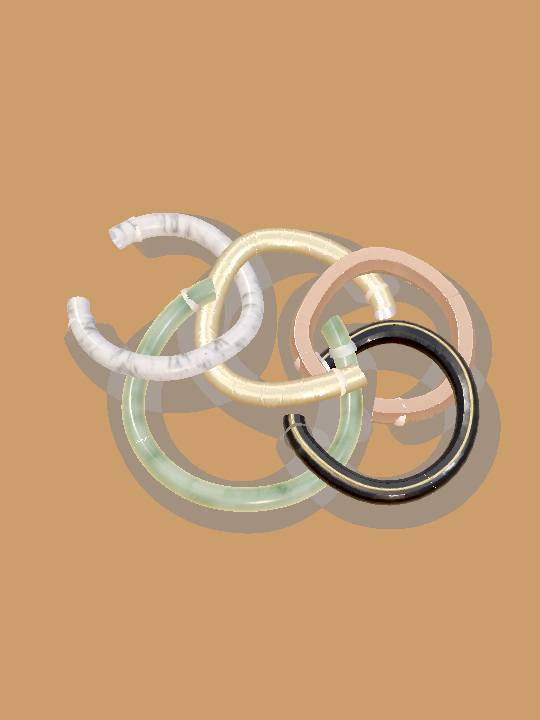
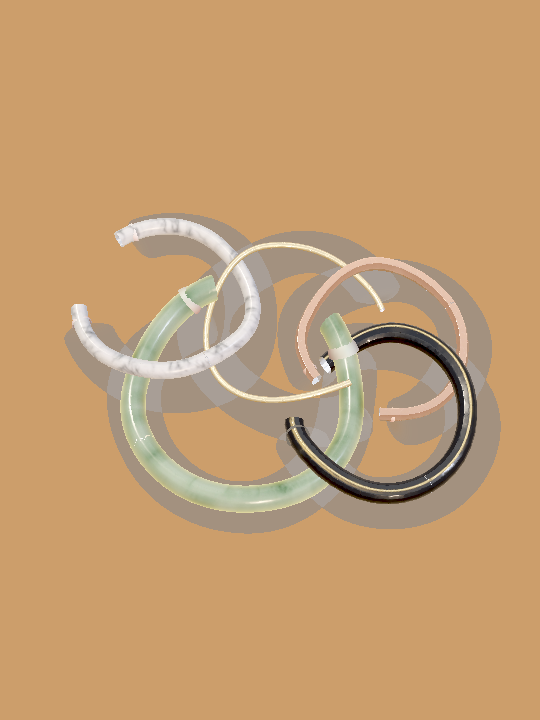
3D rings: draw Meshy GLBs uniformly scaled, as modelled (v1.1.1)
- ring tube thickness and surface detail come from the Meshy model itself (no re-sculpting to the level's thickness)
- end caps: matte, median texel colour of the model
- versionCode 3 / 1.1.1; release notes

Claude-Session: https://claude.ai/code/session_01UVtWuVMRXKuxhqo9e5aBGr

diff --git a/app/src/main/java/com/shiostudios/dumplingrings/ui/board3d/Board3DRenderer.kt b/app/src/main/java/com/shiostudios/dumplingrings/ui/board3d/Board3DRenderer.kt
@@ -40,7 +40,7 @@ class Board3DRenderer(private val context: Context, private val level: LevelDefi
     private val ringModels = HashMap<String, GlRingModel?>()
     private val capMeshes = ArrayList<TorusMesh>(); private val capVbos = IntArray(level.rings.size); private val capIbos = IntArray(level.rings.size)
     private val gapBuf = FloatArray(8)
-    private class GlRingModel(val vbo: Int, val ibo: Int, val indexType: Int, val indexCount: Int, val base: Int, val mr: Int, val nrm: Int, val metal: Float, val rough: Float, val avgColor: FloatArray)
+    private class GlRingModel(val vbo: Int, val ibo: Int, val indexType: Int, val indexCount: Int, val base: Int, val mr: Int, val nrm: Int, val metal: Float, val rough: Float, val avgColor: FloatArray, val tubeRatio: Float)
     private val meshes = ArrayList<TorusMesh>()
     private val vbos = IntArray(level.rings.size); private val ibos = IntArray(level.rings.size)
     private val textures = HashMap<String, Int>()
@@ -79,14 +79,14 @@ class Board3DRenderer(private val context: Context, private val level: LevelDefi
         quadProg = program(Shaders.QUAD_VS, Shaders.QUAD_FS)
         glbRingProg = program(Shaders.GLBRING_VS, Shaders.GLBRING_FS)
         meshes.clear(); capMeshes.clear(); ringModels.clear()
+        // rings are ALWAYS the Meshy premium meshes, drawn uniformly scaled (the model's own tube thickness); an unknown/missing asset falls back to the silver Meshy ring
+        for (mat in level.rings.map { materialOverride ?: it.materialId }.toSet()) ringModels[mat] = loadRingModel(ringAsset(mat)) ?: loadRingModel("ring_silver")
         for ((i, r) in level.rings.withIndex()) {
-            val cm = TorusMesh.buildCaps(r); capMeshes.add(cm)
+            val cm = TorusMesh.buildCaps(r.copy(thickness = visualThickness(i))); capMeshes.add(cm)
             val ids = IntArray(2); GLES30.glGenBuffers(2, ids, 0); capVbos[i] = ids[0]; capIbos[i] = ids[1]
             GLES30.glBindBuffer(GLES30.GL_ARRAY_BUFFER, capVbos[i]); GLES30.glBufferData(GLES30.GL_ARRAY_BUFFER, maxOf(cm.vertexCount, 1) * TorusMesh.FLOATS_PER_VERTEX * 4, cm.vertices, GLES30.GL_STATIC_DRAW)
             GLES30.glBindBuffer(GLES30.GL_ELEMENT_ARRAY_BUFFER, capIbos[i]); GLES30.glBufferData(GLES30.GL_ELEMENT_ARRAY_BUFFER, maxOf(cm.indexCount, 1) * 2, cm.indices, GLES30.GL_STATIC_DRAW)
         }
-        // rings are ALWAYS the Meshy premium meshes (never the procedural dough tube); an unknown/missing asset falls back to the silver Meshy ring
-        for (mat in level.rings.map { materialOverride ?: it.materialId }.toSet()) ringModels[mat] = loadRingModel(ringAsset(mat)) ?: loadRingModel("ring_silver")
         for ((i, r) in level.rings.withIndex()) {
             val m = TorusMesh.build(r); meshes.add(m)
             val ids = IntArray(2); GLES30.glGenBuffers(2, ids, 0); vbos[i] = ids[0]; ibos[i] = ids[1]
@@ -108,6 +108,12 @@ class Board3DRenderer(private val context: Context, private val level: LevelDefi
         else -> materialId
     }
 
+    /** Visual tube diameter of ring i: the Meshy model's own proportions scaled to the level radius (never the level's abstract thickness). */
+    private fun visualThickness(i: Int): Double {
+        val r = level.rings[i]; val m = ringModels[materialOverride ?: r.materialId] ?: return r.thickness
+        return 2.0 * r.radius * m.tubeRatio
+    }
+
     private fun loadRingModel(name: String): GlRingModel? = try {
         val bytes = context.assets.open("3d/rings/$name.glb").use { it.readBytes() }
         val glb = GlbLoader.load(bytes) ?: return null
@@ -118,9 +124,15 @@ class Board3DRenderer(private val context: Context, private val level: LevelDefi
         val base = glb.baseColor?.let { texture(it, repeat = true) } ?: whiteTex
         val mr = glb.metallicRoughness?.let { texture(it, repeat = true) } ?: 0
         val nm = glb.normalMap?.let { texture(it, repeat = true) } ?: 0
-        val avg = glb.baseColor?.let { b -> val sm = Bitmap.createScaledBitmap(b, 8, 8, true); var r = 0f; var g = 0f; var bl = 0f; for (y in 0 until 8) for (x in 0 until 8) { val px = sm.getPixel(x, y); r += (px shr 16 and 255) / 255f; g += (px shr 8 and 255) / 255f; bl += (px and 255) / 255f }; floatArrayOf(r / 64, g / 64, bl / 64) } ?: floatArrayOf(0.8f, 0.7f, 0.5f)
+        // cap colour = per-channel median of the texels the mesh actually uses (robust against inlays/atlas padding)
+        val avg = glb.baseColor?.let { b -> val uvs = glb.uvs ?: return@let null; val cnt = glb.positions.capacity() / 3
+            val rs = ArrayList<Float>(); val gs = ArrayList<Float>(); val bs = ArrayList<Float>()
+            for (i in 0 until cnt step maxOf(1, cnt / 400)) {
+                val x = ((uvs.get(i * 2) % 1f + 1f) % 1f * (b.width - 1)).toInt(); val y = ((uvs.get(i * 2 + 1) % 1f + 1f) % 1f * (b.height - 1)).toInt()
+                val px = b.getPixel(x, y); rs.add((px shr 16 and 255) / 255f); gs.add((px shr 8 and 255) / 255f); bs.add((px and 255) / 255f) }
+            if (rs.isEmpty()) null else floatArrayOf(rs.sorted()[rs.size / 2], gs.sorted()[gs.size / 2], bs.sorted()[bs.size / 2]) } ?: floatArrayOf(0.8f, 0.7f, 0.5f)
         Log.i("Board3D", "ring model $name: ${rm.vertexCount} verts, thickness ratio ${rm.thicknessRatio}")
-        GlRingModel(ids[0], ids[1], rm.indexType, rm.indexCount, base, mr, nm, glb.metallicFactor, glb.roughnessFactor, avg)
+        GlRingModel(ids[0], ids[1], rm.indexType, rm.indexCount, base, mr, nm, glb.metallicFactor, glb.roughnessFactor, avg, rm.minorRadius / rm.majorRadius)
     } catch (e: Exception) { Log.i("Board3D", "ring model $name not available: ${e.message}"); null }
 
     private fun shadowVs() = Shaders.RING_VS
@@ -265,6 +277,7 @@ class Board3DRenderer(private val context: Context, private val level: LevelDefi
         GLES30.glEnableVertexAttribArray(1); GLES30.glVertexAttribPointer(1, 2, GLES30.GL_FLOAT, false, stride, 12)
         GLES30.glEnableVertexAttribArray(2); GLES30.glVertexAttribPointer(2, 3, GLES30.GL_FLOAT, false, stride, 20)
         val e = setRingPlacement(prog, i, rs, s, false)
+        val minorVis = radii[i] * model.tubeRatio; GLES30.glUniform1f(u(prog, "uMinor"), minorVis)   // uniform scale of the Meshy model
         setLights(prog, l)
         GLES30.glActiveTexture(GLES30.GL_TEXTURE0); GLES30.glBindTexture(GLES30.GL_TEXTURE_2D, model.base); GLES30.glUniform1i(u(prog, "uAlbedo"), 0)
         GLES30.glActiveTexture(GLES30.GL_TEXTURE1); GLES30.glBindTexture(GLES30.GL_TEXTURE_2D, if (model.mr != 0) model.mr else whiteTex); GLES30.glUniform1i(u(prog, "uMetalRough"), 1)
@@ -278,7 +291,7 @@ class Board3DRenderer(private val context: Context, private val level: LevelDefi
         GLES30.glUniform1f(u(prog, "uDarken"), if (rs.locked) 1f else 0f)
         val stripe = colorOf(r.colorId); GLES30.glUniform3fv(u(prog, "uStripe"), 1, stripe, 0); GLES30.glUniform1f(u(prog, "uStripeOn"), if (r.colorId != null) 1f else 0f)
         // gaps in local radians, widened by the dome length so the caps own the edge
-        val capRad = (r.thickness * 0.5 / r.radius * 0.95).toFloat()
+        val capRad = model.tubeRatio * 0.95f
         var g = 0
         for (gap in r.gaps.take(4)) { gapBuf[g * 2] = Math.toRadians(gap.startDeg).toFloat() + capRad; gapBuf[g * 2 + 1] = (Math.toRadians(gap.widthDeg).toFloat() - 2 * capRad).coerceAtLeast(0f); g++ }
         GLES30.glUniform1i(u(prog, "uGapCount"), g); GLES30.glUniform2fv(u(prog, "uGaps"), 4, gapBuf, 0); GLES30.glUniform1f(u(prog, "uCapRad"), capRad)
@@ -289,9 +302,9 @@ class Board3DRenderer(private val context: Context, private val level: LevelDefi
         GLES30.glBindBuffer(GLES30.GL_ARRAY_BUFFER, capVbos[i]); GLES30.glBindBuffer(GLES30.GL_ELEMENT_ARRAY_BUFFER, capIbos[i])
         GLES30.glEnableVertexAttribArray(0); GLES30.glVertexAttribPointer(0, 4, GLES30.GL_FLOAT, false, 20, 0)
         GLES30.glEnableVertexAttribArray(1); GLES30.glVertexAttribPointer(1, 1, GLES30.GL_FLOAT, false, 20, 16)
-        setRingPlacement(ringProg, i, rs, s, false); setLights(ringProg, l)
+        setRingPlacement(ringProg, i, rs, s, false); GLES30.glUniform1f(u(ringProg, "uMinor"), minorVis); setLights(ringProg, l)
         GLES30.glActiveTexture(GLES30.GL_TEXTURE0); GLES30.glBindTexture(GLES30.GL_TEXTURE_2D, whiteTex); GLES30.glUniform1i(u(ringProg, "uAlbedo"), 0)
-        GLES30.glUniform3fv(u(ringProg, "uTint"), 1, model.avgColor, 0); GLES30.glUniform1f(u(ringProg, "uRough"), (model.rough * 0.6f).coerceIn(0.15f, 0.8f))
+        GLES30.glUniform3fv(u(ringProg, "uTint"), 1, model.avgColor, 0); GLES30.glUniform1f(u(ringProg, "uRough"), 0.72f)   // matte cut end in the model's own colour
         GLES30.glUniform3fv(u(ringProg, "uEmissive"), 1, em, 0); GLES30.glUniform1f(u(ringProg, "uAlpha"), if (ghost > 0f) ghost else 1f - e); GLES30.glUniform1f(u(ringProg, "uDarken"), if (rs.locked) 1f else 0f)
         GLES30.glUniform1f(u(ringProg, "uStripeOn"), 0f)
         GLES30.glDrawElements(GLES30.GL_TRIANGLES, capMeshes[i].indexCount, GLES30.GL_UNSIGNED_SHORT, 0)

diff --git a/tools/level_preview/render_gles.py b/tools/level_preview/render_gles.py
@@ -170,7 +170,8 @@ def main():
         glTexParameteri(GL_TEXTURE_2D, GL_TEXTURE_MIN_FILTER, GL_LINEAR_MIPMAP_LINEAR); glTexParameteri(GL_TEXTURE_2D, GL_TEXTURE_WRAP_S, GL_REPEAT); glTexParameteri(GL_TEXTURE_2D, GL_TEXTURE_WRAP_T, GL_REPEAT); return t
     def load_ring(path):
         pos, nrm, uv, idx, base, mr, nm, mf, rf = load_glb(path); rv, ratio = ring_model(pos, nrm, uv); print("ring glb:", os.path.basename(path), len(pos), "verts, thickness ratio %.3f" % ratio)
-        return dict(v=rv, idx=idx, base=tex(base), mr=tex(mr), nm=tex(nm), mf=mf, rf=rf, avg=(np.array(base.resize((8, 8))).reshape(-1, 3).mean(0) / 255 if base else np.array([0.8, 0.7, 0.5])))
+        tube = float(rv[:, 1].max() - rv[:, 1].min()) / 2.0  # tube radius in tube units (~1)
+        return dict(v=rv, idx=idx, base=tex(base), mr=tex(mr), nm=tex(nm), mf=mf, rf=rf, ratio=ratio, avg=(np.array(base.convert('RGB'))[(np.mod(uv[::50, 1], 1.0) * (base.height - 1)).astype(int), (np.mod(uv[::50, 0], 1.0) * (base.width - 1)).astype(int)]) if False else (np.median(np.array(base.convert('RGB'))[(np.mod(uv[::50, 1], 1.0) * (base.height - 1)).astype(int), (np.mod(uv[::50, 0], 1.0) * (base.width - 1)).astype(int)], axis=0) / 255 if base is not None and uv is not None else np.array([0.8, 0.7, 0.5])))
     glbs = {}
     if RINGS and os.path.exists(RINGS):
         one = load_ring(RINGS); glbs = {m: one for m in RING_MAP}
@@ -210,23 +211,25 @@ def main():
         for name, val in zip(["uKeyDir", "uKeyCol", "uFillDir", "uFillCol", "uRimDir", "uRimCol", "uAmbientSky", "uAmbientGround"], L): glUniform3f(glGetUniformLocation(p, name), *val)
         glUniform3f(glGetUniformLocation(p, "uEye"), *eye)
     meshes = [build(r) for r in rings]
-    caps = [build_caps(r) for r in rings]
+    def tube_ratio(r):
+        g = glbs.get(r["materialId"]); return g["ratio"] / (1.0 - g["ratio"]) if g else r["thickness"] * 0.5 / r["radius"]   # tube radius / major radius
+    caps = [build_caps(dict(r, thickness=2.0 * r["radius"] * tube_ratio(r))) for r in rings]
     def draw_glb_ring(i, r, sel=False):
         p = glbP; glUseProgram(p); u = lambda n: glGetUniformLocation(p, n)
-        glb = glbs[r["materialId"]]
+        glb = glbs[r["materialId"]]; tr = tube_ratio(r)
         v = glb["v"]; ix = glb["idx"].astype(np.uint32)
         vbo = glGenBuffers(1); glBindBuffer(GL_ARRAY_BUFFER, vbo); glBufferData(GL_ARRAY_BUFFER, v.nbytes, v, GL_STATIC_DRAW)
         ibo = glGenBuffers(1); glBindBuffer(GL_ELEMENT_ARRAY_BUFFER, ibo); glBufferData(GL_ELEMENT_ARRAY_BUFFER, ix.nbytes, ix, GL_STATIC_DRAW)
         glEnableVertexAttribArray(0); glVertexAttribPointer(0, 3, GL_FLOAT, False, 36, ctypes.c_void_p(0))
         glEnableVertexAttribArray(1); glVertexAttribPointer(1, 2, GL_FLOAT, False, 36, ctypes.c_void_p(12))
         glEnableVertexAttribArray(2); glVertexAttribPointer(2, 3, GL_FLOAT, False, 36, ctypes.c_void_p(20))
-        placement(p, r); set_lights(p)
+        placement(p, r); glUniform1f(u("uMinor"), r["radius"] * k * tr); set_lights(p)   # uniform scale of the Meshy model
         for unit, (name, t) in enumerate([("uAlbedo", glb["base"]), ("uMetalRough", glb["mr"]), ("uNormalMap", glb["nm"])]):
             glActiveTexture(GL_TEXTURE0 + unit); glBindTexture(GL_TEXTURE_2D, t); glUniform1i(u(name), unit)
         glUniform1f(u("uHasMR"), 1.0 if glb["mr"] else 0.0); glUniform1f(u("uHasNormal"), 1.0 if glb["nm"] else 0.0)
         glUniform1f(u("uMetalFactor"), glb["mf"]); glUniform1f(u("uRoughFactor"), glb["rf"])
         glUniform3f(u("uEmissive"), *((0.2, 0.15, 0.03) if sel else (0, 0, 0))); glUniform1f(u("uAlpha"), 1); glUniform1f(u("uDarken"), 0); glUniform1f(u("uStripeOn"), 0); glUniform3f(u("uStripe"), 0, 0, 0)
-        capRad = r["thickness"] * 0.5 / r["radius"] * 0.95
+        capRad = tr * 0.95
         gaps = np.zeros(8, np.float32)
         for gi, g in enumerate(r["gaps"][:4]): gaps[gi * 2] = math.radians(g["startDeg"]) + capRad; gaps[gi * 2 + 1] = max(0.0, math.radians(g["widthDeg"]) - 2 * capRad)
         glUniform1i(u("uGapCount"), min(4, len(r["gaps"]))); glUniform2fv(u("uGaps"), 4, gaps); glUniform1f(u("uCapRad"), capRad)
@@ -239,9 +242,9 @@ def main():
         ibo = glGenBuffers(1); glBindBuffer(GL_ELEMENT_ARRAY_BUFFER, ibo); glBufferData(GL_ELEMENT_ARRAY_BUFFER, cix.nbytes, cix, GL_STATIC_DRAW)
         glEnableVertexAttribArray(0); glVertexAttribPointer(0, 4, GL_FLOAT, False, 20, ctypes.c_void_p(0))
         glEnableVertexAttribArray(1); glVertexAttribPointer(1, 1, GL_FLOAT, False, 20, ctypes.c_void_p(16))
-        placement(p, r); set_lights(p)
+        placement(p, r); glUniform1f(u("uMinor"), r["radius"] * k * tr); set_lights(p)
         glActiveTexture(GL_TEXTURE0); glBindTexture(GL_TEXTURE_2D, white); glUniform1i(u("uAlbedo"), 0)
-        glUniform3f(u("uTint"), *glb["avg"]); glUniform1f(u("uRough"), min(max(glb["rf"] * 0.6, 0.15), 0.8))
+        glUniform3f(u("uTint"), *glb["avg"]); glUniform1f(u("uRough"), 0.72)
         glUniform3f(u("uEmissive"), 0, 0, 0); glUniform1f(u("uAlpha"), 1); glUniform1f(u("uDarken"), 0); glUniform1f(u("uStripeOn"), 0)
         glDrawElements(GL_TRIANGLES, len(cix), GL_UNSIGNED_SHORT, ctypes.c_void_p(0))
     def placement(p, r):

diff --git a/docs/RELEASE_NOTES.md b/docs/RELEASE_NOTES.md
@@ -1,3 +1,8 @@
+## Dumpling Rings 1.1.1 — Meshy rings drawn as modelled
+
+- Every ring is the Meshy GLB drawn uniformly scaled to the level radius (its own tube thickness and surface detail, no re-sculpting); gaps are cut in-shader and closed with matte end caps in the model's colour
+- Tag v1.1.0 was created by a cancelled build and has no release; v1.1.1 supersedes it
+
 ## Dumpling Rings 1.1.0 — real 3D rings, dramatic lighting, particles
 
 ### New in 1.1
